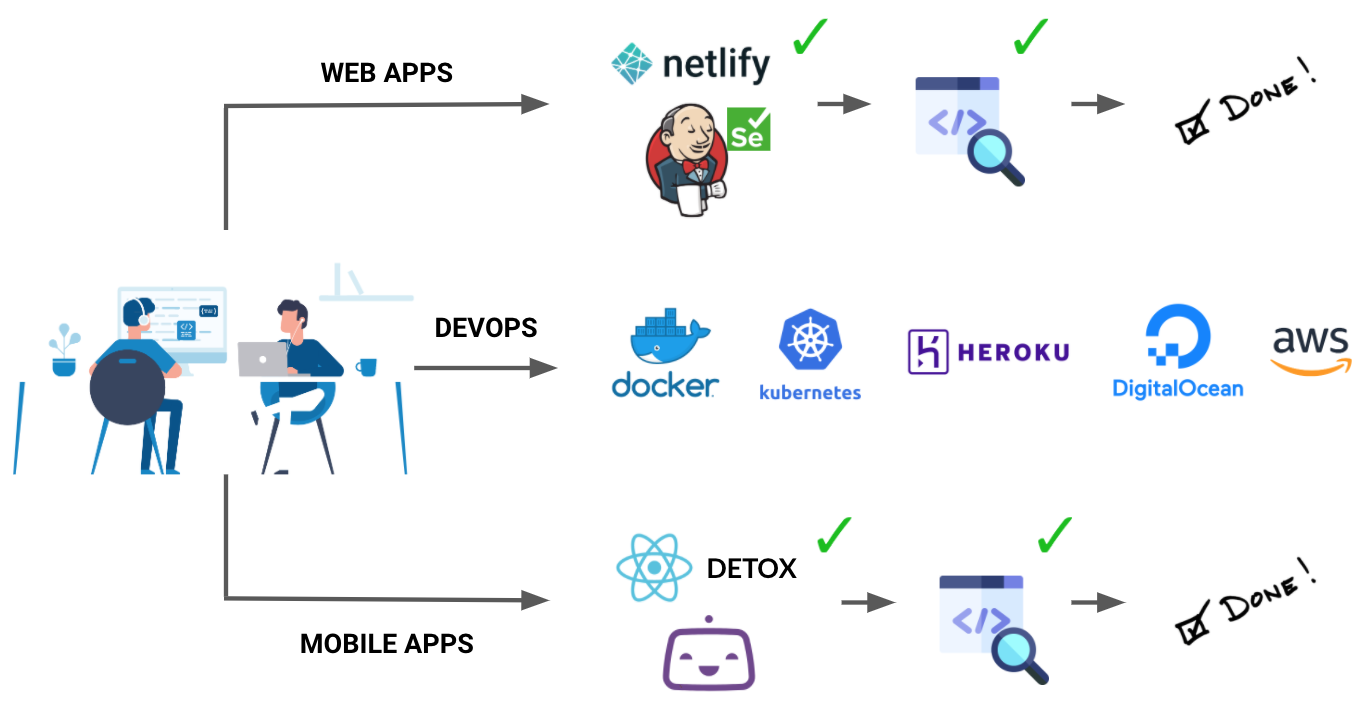
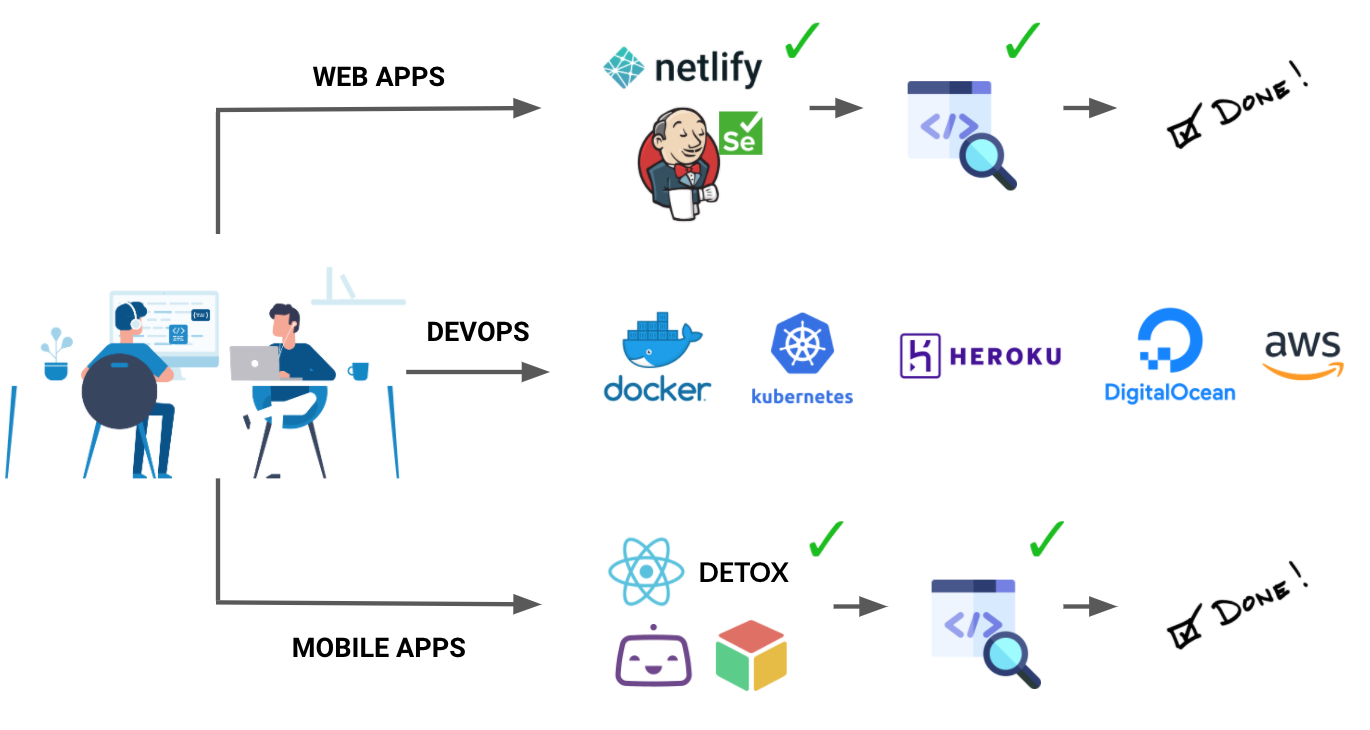
Adding flow and schemas for CI/CD

diff --git a/0-development-practices.md b/0-development-practices.md
@@ -88,24 +88,48 @@ The whole team participates on this event, getting a good and deep thoughts abou
 
 ### CI / CD flow
 
+![alt text](https://github.com/mobixsoftwarestudio/mobix-playbook/blob/master/Images/CI:CD.png?raw=true "CI/CD Flow")
+
 #### Web Apps
+
+[Jenkins](https://www.jenkins.io/) + [Selenium](https://www.selenium.dev/)
+![alt text](https://github.com/mobixsoftwarestudio/mobix-playbook/blob/master/Images/Jenkins_Selenium.png?raw=true "Jenkins + Selenium")
+
+[Netlify](https://www.netlify.com/)
+![alt text](https://github.com/mobixsoftwarestudio/mobix-playbook/blob/master/Images/Netlify.png?raw=true "Netlify")
 
 #### Mobile Apps
 
-#### Fake Back End (CD)
+[Bitrise](https://www.bitrise.io/)
+![alt text](https://github.com/mobixsoftwarestudio/mobix-playbook/blob/master/Images/Bitrise.png?raw=true "Bitrise")
+
+[Detox](https://github.com/wix/Detox)
+![alt text](https://github.com/mobixsoftwarestudio/mobix-playbook/blob/master/Images/Bitrise.png?raw=true "Detox")
+
+[Appetize](https://appetize.io/)
+![alt text](https://github.com/mobixsoftwarestudio/mobix-playbook/blob/master/Images/Appetize.png?raw=true "Appetize")
+
+#### Devops
+
+[Docker](https://www.docker.com/)
+![alt text](https://github.com/mobixsoftwarestudio/mobix-playbook/blob/master/Images/Docker.png?raw=true "Docker")
+
+[Kubernetes](https://kubernetes.io/) (in case of microservices architecture)
+![alt text](https://github.com/mobixsoftwarestudio/mobix-playbook/blob/master/Images/Kubernetes.png?raw=true "Kubernetes")
+
+[Heroku](https://www.heroku.com/)
+![alt text](https://github.com/mobixsoftwarestudio/mobix-playbook/blob/master/Images/Heroku.png?raw=true "Heroku")
+
+[Digital Ocean](https://www.digitalocean.com/)
+![alt text](https://github.com/mobixsoftwarestudio/mobix-playbook/blob/master/Images/Digital_Ocean.png?raw=true "Digital Ocean")
+
+[Amazon Web Services (AWS)](https://aws.amazon.com/)
+![alt text](https://github.com/mobixsoftwarestudio/mobix-playbook/blob/master/Images/AWS.png?raw=true "AWS")
+
+#### Fake Back End
 
 It is common to face a client that needs to validate his/her product, but with no structure for that. Also doing a pipeline of development may loose the opportunity window for his/her business, so we need to make it fast.
 To tackle this challenge, we have implemented an approach to mock an API to the frontend team to avoid barriers in terms of back end demands.
 
-It simply adds an `api.json` file into the project with the expected data structure that it's supposed to be your desired API and then can be runned out with a continuous deploy and it's online in a few minutes.
-
-## Coming soon:
-
-### QA
-
-#### Unit and Integration Tests
-
-#### Test Engineering
-
-### ADA for Mobile Apps
+We only need to add a `api.json` file into the project with the expected data structure that it's supposed to be your desired API and then can be runned out with a continuous deploy and it's online in a few minutes.
 
